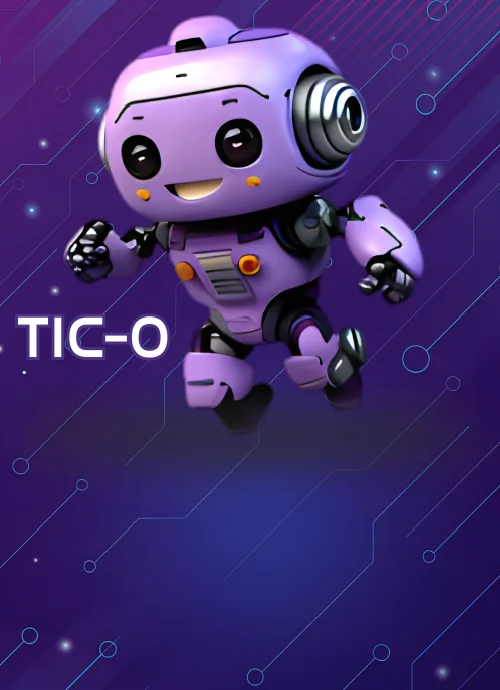
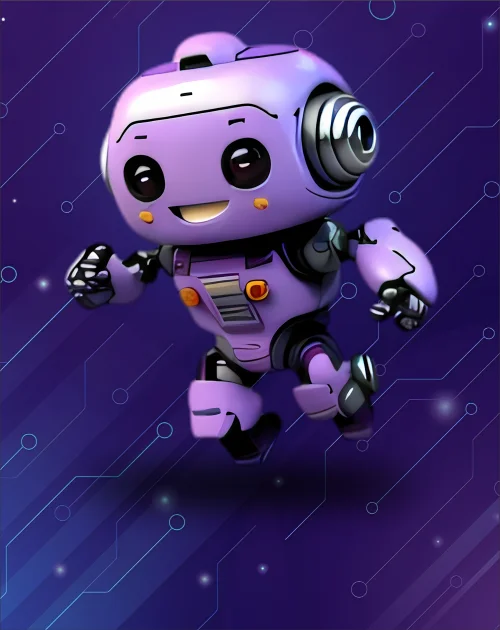
carrusel completo

diff --git a/secretaria-tic/src/components/carrousel.jsx b/secretaria-tic/src/components/carrousel.jsx
@@ -1,6 +1,7 @@
 import React from 'react';
 import "react-responsive-carousel/lib/styles/carousel.css"; // requires a loader
 import { Carousel } from 'react-responsive-carousel';
+import { Link } from 'react-router-dom';
 import styled from 'styled-components';
 
 
@@ -40,12 +41,14 @@ const ImageDiv = styled.div`
         justify-content: baseline;
         align-items: center;
         background: url("/images/bannerMovil/image_1.webp") no-repeat center;
+        
     }
 `
 const ImageDiv2 = styled.div`
     background: url("/images/banner/image_2.webp");
+    background-repeat: no-repeat;
     background-size: cover;
-    
+    background-position: center;
     width: 100%;
     height: 700px;
     display: flex; 
@@ -53,17 +56,23 @@ const ImageDiv2 = styled.div`
     align-items: baseline;
     justify-content: end;
     overflow: hidden;
-    padding: 50px;
+    padding: 70px;
     color: white;
     font-size: larger;
     @media (max-width: 500px){
         justify-content: baseline;
         align-items: center;
+        background: url("/images/bannerMovil/image_2.webp");
+        background-repeat: no-repeat;
+        background-size: cover;
+        background-position: center;
     }
 `
 const ImageDiv3 = styled.div`
-    background: url("/images/banner/image_3.webp");
+    background-image: url("/images/banner/image_3.webp");
+    background-repeat: no-repeat;
     background-size: cover;
+    background-position: center;
     width: 100%;
     height: 700px;
     display: flex; 
@@ -71,31 +80,37 @@ const ImageDiv3 = styled.div`
     align-items: baseline;
     justify-content: end;
     overflow: hidden;
-    padding: 50px;
+    padding: 70px;
     color: white;
     font-size: larger;
     @media (max-width: 500px){
         justify-content: baseline;
         align-items: center;
+        background: url("/images/bannerMovil/image_3.webp");
+        background-repeat: no-repeat;
+        background-size: cover;
+        background-position: center;
     }
 `
 const CarrouselTitle = styled.h1`
     text-shadow: 3px 3px 5px rgba(0,0,0,1);
     @media (max-width: 500px){
-        font-size: larger;
         position: relative;
+        top: 30px;
+        width: 130%;
         
     }
 `
 const CarrouselText = styled.h3`
     text-shadow: 3px 3px 5px rgba(0,0,0,1);
     @media (max-width: 500px){
-        font-size: large;
-        position: relative;
-        
-        width: 150%;
+        font-size: large;        
+        width: 130%;
 
     }
+`
+const CustomLink = styled(Link)`
+    text-decoration: none;
 `
 
 
@@ -104,26 +119,33 @@ export default function Carrousel(){
         <CarroulseDiv>
             <CustomCarrousel 
             showArrows={true} 
-            autoPlay={false}
+            autoPlay={true}
             infiniteLoop={true}
             preventMovementUntilSwipeScrollTolerance={true}
             showThumbs={false}
             stopOnHover={false}
             showStatus={false}
             showIndicators={false}
-            interval={4000}>    
-                <ImageDiv>
-                    <CarrouselTitle>Conoce a TIC-O</CarrouselTitle>
-                    <CarrouselText>La nueva mascota de la Secretaría de las Tecnologías de las Información y las Comunicaciónes</CarrouselText>
-                </ImageDiv>
-                <ImageDiv2>
-                    <CarrouselTitle>placeholder title</CarrouselTitle>
-                    <CarrouselText>placeholder text</CarrouselText>
-                </ImageDiv2>
-                <ImageDiv3>
-                    <CarrouselTitle>placeholder title</CarrouselTitle>
-                    <CarrouselText>placeholder text</CarrouselText>
-                </ImageDiv3>
+            interval={4000}>
+                <CustomLink to={"/tico"}>
+                    <ImageDiv>
+                        <CarrouselTitle>Conoce a TIC-O</CarrouselTitle>
+                        <CarrouselText>La nueva mascota de la Secretaría de las Tecnologías de las Información y las Comunicaciónes</CarrouselText>
+                    </ImageDiv>
+                </CustomLink>    
+                <CustomLink to={"/oferta-institucional"}>
+                    <ImageDiv2>
+                        <CarrouselTitle>Estudia con Nosotros</CarrouselTitle>
+                        <CarrouselText>Enterate de toda la oferta educativa que la Secretaría TIC tiene para tí</CarrouselText>
+                    </ImageDiv2>
+                </CustomLink>
+                <CustomLink to={"/digicampus"}>
+                    <ImageDiv3>
+                        <CarrouselTitle>Encuentra tu pasión y construye tu futuro</CarrouselTitle>
+                        <CarrouselText>Busca y compara las opciones que pueden ofrecerte las 10 universidades más importantes de la región y encuentra la que mejor se adapte a ti.</CarrouselText>
+                    </ImageDiv3>
+                </CustomLink>
+               
                 
             </CustomCarrousel>
         </CarroulseDiv>

diff --git a/secretaria-tic/src/pages/ofertaInstitucional.jsx b/secretaria-tic/src/pages/ofertaInstitucional.jsx
@@ -43,10 +43,17 @@ const TextDiv = styled.div`
     
 `
 const Title = styled.h1`
+font-size: 2.5em;
 @media (max-width: 500px){
     text-align: center;
+    font-size: 2.5em;
 }
-    
+`
+const Text = styled.p`
+    font-size: 1.4em;
+    @media (max-width: 500px){
+        font-size: 1.3em;
+    }
 `
 const CousesDiv = styled.div`
     width: 80%;
@@ -77,13 +84,13 @@ export default function BugaAvanza(){
             </ContentDiv>
             <TextDiv>
                 <Title>Nuestra Oferta Institucional</Title>
-                <p>
+                <Text>
                     La Secretaría de las Tecnologias de la Informacion y las Comunicaciones, ofrece a toda
                     la comunidad Bugueña una fuerte oferta educativa, con el objetivo de cerrar la gran brecha digital
                     que existe entre la poblacion bugueña. Estamos innovando cada día para asi lograr ofrecer
                     nuevos cursos a toda la comunidad, en los proximos meses, a parte de las formaciones en Ofimatica Basica,
                     cursos de Excel y Office, se anexan a nuestro portafolio nuevos cursos en Manejo de Drones y en Fundamentos de Programacion.
-                </p>  
+                </Text>  
             </TextDiv>
             <CousesDiv>
                 <CourseImage src="/images/ofertaInstitucional/programacion.webp" alt="Programacion" />
